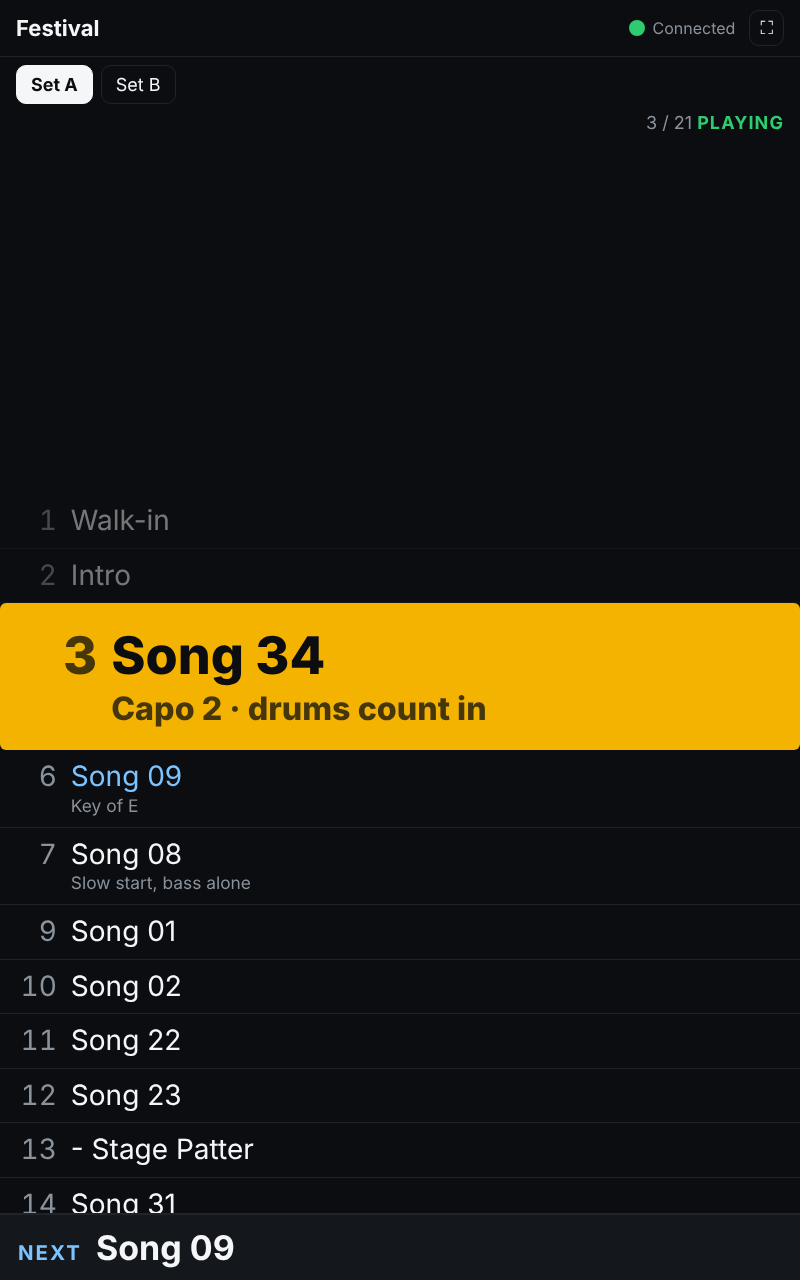
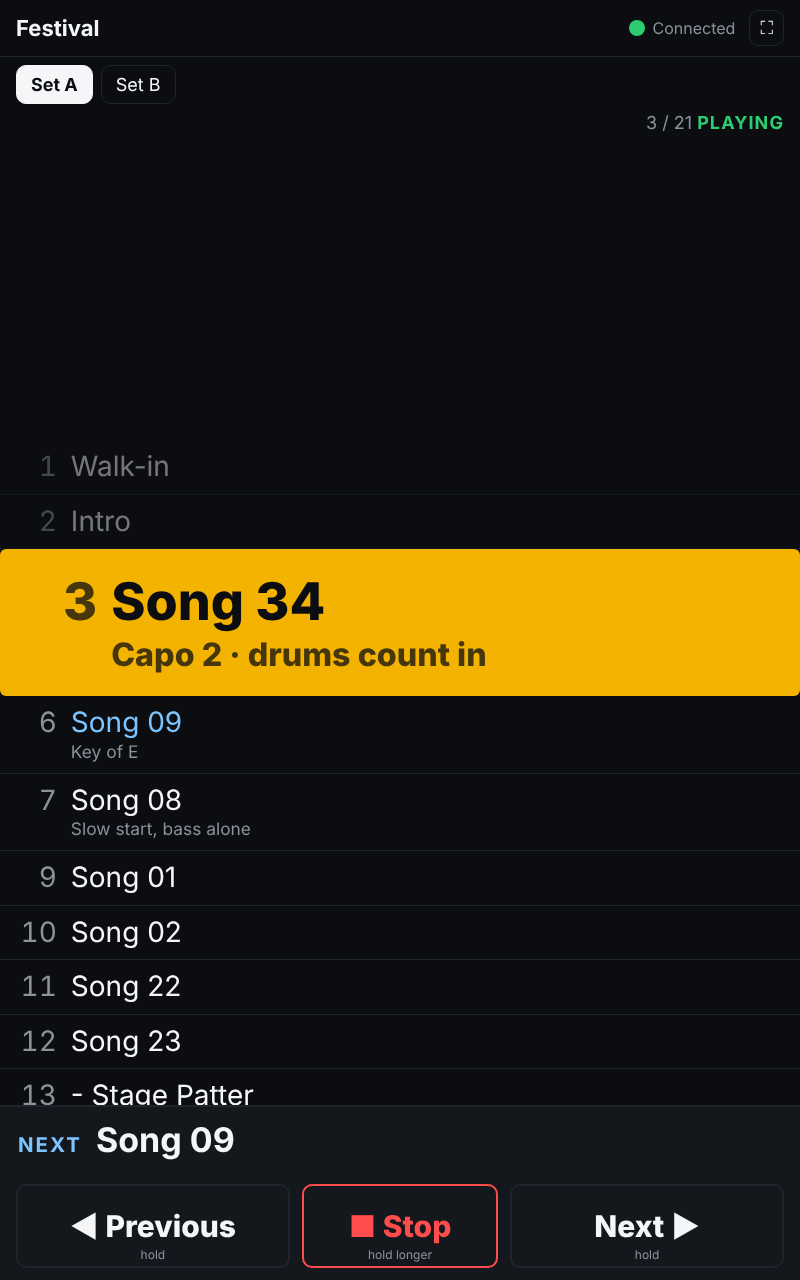
feat: Stage Monitor Control mode gets the CueList's own Stop and a safety hold setting (3.5.5)
- A Stop button between Previous and Next sends <id>|STOP, the CueList's
  own Stop. Only while the list plays or is paused, since a STOP on a
  stopped list rewinds it to the first step.
- CueLists with the Play/Stop/Pause layout (<PlaybackLayout>1) pause and
  resume on that button in QLC+, so the page reads Pause / Resume there.
  cuelists() now reports `layout`.
- Safety hold (hold_ms): how long Previous / Next must be held, 0 (a tap
  acts, for skipping several songs) 300 600 1000 1500 ms; 600 by default
  as before. Stop needs twice that and at least 1200 ms, so a tap never
  stops a list. In the screen, the page config and Claude's tool.
- No blackout: QLC+ 5's web socket has none, and a VC Blackout button
  pressed from the web can get out of step (documented in the protocol).
- Checked live on QLC+ 5.3.0 (Stop, Pause/Resume, four quick taps with
  the hold off). Pictures and GIF retaken with Set A in Control mode.
- Version 3.5.5, changelog, release notes, work plan, protocol notes,
  seven languages, Claude guide.

Claude-Session: https://claude.ai/code/session_01J5KWmmqtc4ek1m6SB3r1QZ

diff --git a/core/stage_page/page.html b/core/stage_page/page.html
@@ -89,6 +89,9 @@ body.stale .step.cur .n, body.stale .step.cur .note { color: var(--stale-fg); }
 #ctrl[hidden] { display: none; }
 #ctrl button { flex: 1; height: calc(84px * var(--k)); font-size: calc(30px * var(--k)); font-weight: 800; position: relative; overflow: hidden; border-width: 2px; }
 #ctrl button .fill, .step .fill { position: absolute; left: 0; top: 0; bottom: 0; width: 0; background: rgba(124,196,255,.35); pointer-events: none; }
+#ctrl #bStop { flex: 0.7; border-color: var(--bad); color: var(--bad); }
+#ctrl #bStop .fill { background: rgba(255,90,90,.35); }
+#ctrl button:disabled { opacity: .35; }
 #ctrl .hint { position: absolute; bottom: 4px; left: 0; right: 0; font-size: 12px; font-weight: 400; color: var(--dim); }
 .step { position: relative; }
 
@@ -119,6 +122,7 @@ body.stale .step.cur .n, body.stale .step.cur .note { color: var(--stale-fg); }
 <div id="nextbar" hidden><span class="lbl"></span><span class="t"></span></div>
 <div id="ctrl" hidden>
   <button id="bPrev" type="button"><span class="fill"></span>◀ <span class="lb"></span><span class="hint"></span></button>
+  <button id="bStop" type="button"><span class="fill"></span>■ <span class="lb"></span><span class="hint"></span></button>
   <button id="bNext" type="button"><span class="fill"></span><span class="lb"></span> ▶<span class="hint"></span></button>
 </div>
 <div id="debug" hidden></div>
@@ -136,6 +140,10 @@ const PROTOCOL = {
   arm: "/vc.json",
   status: id => `QLC+API|getWidgetStatus|${id}`,      // → QLC+API|getWidgetStatus|<id>|PLAY|<n>  or  …|<id>|STOP
   next: id => `${id}|NEXT`, prev: id => `${id}|PREV`,
+  // the CueList's own Stop button. On a list that is already stopped it sends the list back to its first
+  // step, so the page sends it only while the list plays or is paused. With the CueList layout
+  // "Play/Stop/Pause" (PlaybackLayout 1) the same button pauses and resumes instead.
+  stop: id => `${id}|STOP`,
   // <id>|STEP|<n> exists but in QLC+ 5.3.0 it only moves the selection, not what plays: not used.
   // pushed to every client: <id>|CUE|<n>   <id>|CUE_STATE|<status 0 stop 1 play 2 pause>|<n>|<next>|<side>|<top>
   parse(msg) {
@@ -153,7 +161,10 @@ const PROTOCOL = {
     return null;
   },
 };
-const POLL_MS = 2000, STALE_MS = 7000, ARM_MS = 60000, BACKOFF = [1000, 2000, 5000], HOLD_MS = 600;
+const POLL_MS = 2000, STALE_MS = 7000, ARM_MS = 60000, BACKOFF = [1000, 2000, 5000];
+// Control mode: how long Previous / Next must be held (0: a tap acts) and Stop (at least 1.2 s, twice the hold)
+const HOLD_MS = Number.isFinite(CFG.holdMs) ? CFG.holdMs : 600;
+const STOP_HOLD_MS = Number.isFinite(CFG.stopHoldMs) ? CFG.stopHoldMs : Math.max(1200, 2 * HOLD_MS);
 
 const T = s => (CFG.t && CFG.t[s]) || s;
 const $ = id => document.getElementById(id);
@@ -323,7 +334,11 @@ function render() {
   if (ctrl) {
     $("bPrev").querySelector(".lb").textContent = T("Previous");
     $("bNext").querySelector(".lb").textContent = T("Next");
-    $("bPrev").querySelector(".hint").textContent = $("bNext").querySelector(".hint").textContent = T("hold");
+    $("bPrev").querySelector(".hint").textContent = $("bNext").querySelector(".hint").textContent = HOLD_MS > 0 ? T("hold") : "";
+    const pause = l.layout === "pause", sb = $("bStop");
+    sb.querySelector(".lb").textContent = !pause ? T("Stop") : s.status === 2 ? T("Resume") : T("Pause");
+    sb.querySelector(".hint").textContent = T("hold longer");
+    sb.disabled = !connected || !playing;   // a Stop on a stopped list would rewind it
   }
 
   const b = $("banner");
@@ -354,17 +369,18 @@ function clock() {
 }
 
 // ── control mode: a long press, so a stray tap does nothing ──────────────────
-function hold(el, fire) {
+function hold(el, fire, ms = HOLD_MS) {
   let t = null, fill = null;
   const start = e => {
-    if (!connected) return;
+    if (!connected || el.disabled) return;
     e.preventDefault();
+    if (ms <= 0) { fire(); if (navigator.vibrate) navigator.vibrate(20); return; }   // safety hold off: a tap acts
     fill = el.querySelector(".fill");
     if (!fill) { fill = document.createElement("span"); fill.className = "fill"; el.prepend(fill); }
     fill.style.transition = "none"; fill.style.width = "0";
     void fill.offsetWidth;
-    fill.style.transition = `width ${HOLD_MS}ms linear`; fill.style.width = "100%";
-    t = setTimeout(() => { t = null; fire(); if (navigator.vibrate) navigator.vibrate(40); end(); }, HOLD_MS);
+    fill.style.transition = `width ${ms}ms linear`; fill.style.width = "100%";
+    t = setTimeout(() => { t = null; fire(); if (navigator.vibrate) navigator.vibrate(40); end(); }, ms);
   };
   const end = () => {
     if (t) { clearTimeout(t); t = null; }
@@ -376,6 +392,10 @@ function hold(el, fire) {
 }
 hold($("bPrev"), () => send(PROTOCOL.prev(lists[cur].id)));
 hold($("bNext"), () => send(PROTOCOL.next(lists[cur].id)));
+hold($("bStop"), () => {
+  const s = st[lists[cur].id];
+  if (s.status === 1 || s.status === 2) send(PROTOCOL.stop(lists[cur].id));
+}, STOP_HOLD_MS);
 // ── full screen, wake lock, debug ────────────────────────────────────────────
 const fsEl = document.documentElement;
 const fsReq = fsEl.requestFullscreen || fsEl.webkitRequestFullscreen;

diff --git a/static/js/stagemon.js b/static/js/stagemon.js
@@ -78,9 +78,9 @@ function _smRender() {
         <input class="field-input" maxlength="80" value="${_esc(it.label)}" placeholder="${_esc(cl.caption || 'Label on the page')}" data-i18n="${cl.caption ? 'off' : ''}"
                oninput="stagemonList('${cl.id}', 'label', this.value)" title="Label on the page (the CueList's caption when empty)">
         <select class="field-input" style="width:auto" onchange="stagemonList('${cl.id}', 'mode', this.value)"
-                title="Read-only: the tablet only shows the cues; nothing on it changes the show. Control: the page also has Previous and Next buttons that move this cue list in QLC+, like the pedal, each after a long press.">
+                title="Read-only: the tablet only shows the cues; nothing on it changes the show. Control: the page also has Previous, Stop and Next buttons that work this cue list in QLC+ like its own buttons or the pedal. Previous and Next act after the safety hold set under The page, Stop after a longer one.">
           <option value="read"${it.mode === 'read' ? ' selected' : ''}>${_esc('Read-only: shows the cues')}</option>
-          <option value="control"${it.mode === 'control' ? ' selected' : ''}>${_esc('Control: adds Previous / Next (hold)')}</option>
+          <option value="control"${it.mode === 'control' ? ' selected' : ''}>${_esc('Control: adds Previous / Stop / Next (hold)')}</option>
         </select>
         <button class="btn btn-surface btn-sm sm-ord" onclick="stagemonMove('${cl.id}', -1)" ${pos <= 0 ? 'disabled' : ''} title="Earlier on the page">↑</button>
         <button class="btn btn-surface btn-sm sm-ord" onclick="stagemonMove('${cl.id}', 1)" ${pos >= cfg.lists.length - 1 ? 'disabled' : ''} title="Later on the page">↓</button>
@@ -131,6 +131,7 @@ function _smSettings() {
   document.getElementById('sm-notes').checked = c.show_notes;
   document.querySelectorAll('#sm-font button').forEach(b => b.classList.toggle('on', b.dataset.v === c.font));
   set('sm-theme', c.theme);
+  set('sm-hold', String(c.hold_ms));
   set('sm-folder', _sm.folder || '');
   setFileChip('sm-folder-chip', _sm.folder, 'no folder yet');
   _smServer(_sm.server);

diff --git a/templates/index.html b/templates/index.html
@@ -2248,6 +2248,15 @@
           <label class="sm-check"><input type="checkbox" id="sm-next" onchange="stagemonSet('show_next', this.checked)"> Show the next cue</label>
           <label class="sm-check"><input type="checkbox" id="sm-clock" onchange="stagemonSet('show_clock', this.checked)"> Show the time</label>
           <label class="sm-check"><input type="checkbox" id="sm-numbers" onchange="stagemonSet('show_numbers', this.checked)"> Show step numbers</label>
+          <div class="sm-row"><span>Safety hold</span>
+            <select id="sm-hold" class="field-input sm-theme" onchange="stagemonSet('hold_ms', +this.value)"
+                    data-tooltip="Control mode: how long Previous and Next must be held before they act, so a stray touch does nothing. Off: a tap acts at once, handy for skipping several songs. Stop always needs a longer hold (at least 1.2 s).">
+              <option value="0">Off: a tap acts</option>
+              <option value="300">0.3 s</option>
+              <option value="600">0.6 s</option>
+              <option value="1000">1 s</option>
+              <option value="1500">1.5 s</option>
+            </select></div>
           <label class="sm-check" data-tooltip="The notes written on the CueList's steps in QLC+ (a key, a capo, who starts), in small type under each name"><input type="checkbox" id="sm-notes" onchange="stagemonSet('show_notes', this.checked)"> Show step notes</label>
           <div class="sm-row sm-ports"><span>Ports</span>
             <label data-tooltip="QLC+ web access listens here (qlcplus -w); 9999 unless you changed it">QLC+ <input id="sm-wsport" class="field-input" type="number" min="1" max="65535" onchange="stagemonSet('ws_port', +this.value)"></label>

diff --git a/core/stage_monitor.py b/core/stage_monitor.py
@@ -46,6 +46,8 @@ CONFIG_VERSION = 1
 FONT_SCALES = ("S", "M", "L", "XL")
 THEMES = ("dark", "contrast", "black", "dim")   # black: white song on black; dim: grey song on black
 MODES = ("read", "control")
+HOLD_CHOICES = (0, 300, 600, 1000, 1500)   # ms a Control button must be held; 0 = a tap acts
+STOP_HOLD_MIN = 1200                       # Stop needs at least this, and twice the hold
 DEFAULT_WS_PORT = 9999
 DEFAULT_HTTP_PORT = 8080
 
@@ -58,6 +60,7 @@ DEFAULTS = {
     "show_clock": True,
     "show_numbers": True,
     "show_notes": True,       # the step notes of the CueList, under each name
+    "hold_ms": 600,           # Control mode: hold Previous / Next this long (0: a tap acts)
     "ws_port": DEFAULT_WS_PORT,
     "http_port": DEFAULT_HTTP_PORT,
     "lists": [],          # [{id, label, mode, steps: {"<index>": {hide, label}}}] in display order
@@ -132,7 +135,7 @@ def cuelists(root) -> List[dict]:
     it, the console page first), ``page`` (console page, 0-based),
     ``frame_page`` (page inside the nearest multipage frame, with its name,
     or ``None``), ``chaser`` (``{id, name}`` or ``None``), ``steps``
-    (``[{index, fid, name, note}]``) and ``inputs``.
+    (``[{index, fid, name, note}]``), ``layout`` (``stop`` or ``pause``) and ``inputs``.
     """
     vc = None
     for el in root.iter():
@@ -166,6 +169,13 @@ def cuelists(root) -> List[dict]:
     return out
 
 
+def _layout(cl) -> str:
+    """What the CueList's second button does: ``stop`` (QLC+'s default, Play/Pause/Stop)
+    or ``pause`` (layout Play/Stop/Pause, saved as ``<PlaybackLayout>1``)."""
+    el = _child(cl, "PlaybackLayout")
+    return "pause" if el is not None and (el.text or "").strip() == "1" else "stop"
+
+
 def _one(cl, path, page, fpage, funcs) -> dict:
     cid = (_child(cl, "Chaser").text or "").strip() if _child(cl, "Chaser") is not None else ""
     ch = funcs.get(cid)
@@ -187,6 +197,7 @@ def _one(cl, path, page, fpage, funcs) -> dict:
         "frame_page": fpage,
         "chaser": {"id": cid, "name": ch.get("Name", "")} if ch is not None else None,
         "steps": steps,
+        "layout": _layout(cl),
         "inputs": _bindings(cl),
     }
 
@@ -220,6 +231,11 @@ def clean_config(cfg: Optional[dict]) -> dict:
     for k in ("show_next", "show_clock", "show_numbers", "show_notes"):
         if k in cfg:
             out[k] = bool(cfg[k])
+    try:
+        hold = int(cfg.get("hold_ms", DEFAULTS["hold_ms"]))
+    except (TypeError, ValueError):
+        hold = DEFAULTS["hold_ms"]
+    out["hold_ms"] = hold if hold in HOLD_CHOICES else DEFAULTS["hold_ms"]
     out["ws_port"] = _port(cfg.get("ws_port"), DEFAULT_WS_PORT)
     out["http_port"] = _port(cfg.get("http_port"), DEFAULT_HTTP_PORT)
     seen = set()
@@ -307,7 +323,7 @@ def reconcile(cfg: dict, lists: List[dict]) -> dict:
 PAGE_STRINGS = (
     "Stage Monitor", "Connecting…", "Connected", "Not connected", "retry in", "Unknown",
     "Not in the show QLC+ has open", "Playing", "Paused", "Stopped", "NEXT", "Previous", "Next",
-    "hold", "Not connected to QLC+",
+    "hold", "Stop", "Pause", "Resume", "hold longer", "Not connected to QLC+",
     "Start QLC+ with web access (qlcplus -w). Trying again by itself.",
     "No cue list chosen. Choose one in Swiss Knife and export again.",
     "Every step of this list is hidden.", "Close",
@@ -342,10 +358,11 @@ def page_data(cfg: dict, lists: List[dict], lang: str = "en") -> dict:
                           "note": st["note"], "hide": bool(s.get("hide"))})
         out_lists.append({"id": int(item["id"]),
                           "label": item["label"] or cl["caption"] or (cl["chaser"] or {}).get("name") or f"Cue list {item['id']}",
-                          "mode": item["mode"], "steps": steps})
+                          "mode": item["mode"], "layout": cl.get("layout", "stop"), "steps": steps})
     return {"title": cfg["title"], "font": cfg["font"], "theme": cfg["theme"],
             "showNext": cfg["show_next"], "showClock": cfg["show_clock"],
-            "showNumbers": cfg["show_numbers"], "showNotes": cfg["show_notes"], "wsPort": cfg["ws_port"],
+            "showNumbers": cfg["show_numbers"], "showNotes": cfg["show_notes"], "holdMs": cfg["hold_ms"],
+            "stopHoldMs": max(STOP_HOLD_MIN, 2 * cfg["hold_ms"]), "wsPort": cfg["ws_port"],
             "lists": out_lists, "lang": lang if lang in LANGS else "en", "t": page_strings(lang)}
 
 

diff --git a/core/mcp_server.py b/core/mcp_server.py
@@ -151,7 +151,7 @@ TOOLS: List[dict] = [
      "inputSchema": _obj({"songs": _IDS, "text": _S, "slot": _S, "rows": {"type": "array"},
                           "apply": {"type": "boolean"}, "target_chaser_id": _S})},
     {"name": "stage_monitor", "handler": "t_stage_monitor",
-     "description": "The Stage Monitor: a page for a tablet on stage that shows the current and the next cue of chosen CueLists, live from QLC+. Without arguments, lists the show's CueLists (id, caption, where, chaser, step names) and the saved settings (read only). `config` changes the settings and keeps them in <show>.stage.json: title, font (S M L XL), theme (dark, contrast, black = white song on black, dim = grey song on black), show_next, show_clock, show_numbers, show_notes (the CueList step notes), ws_port, http_port, and lists [{id, label, mode (read | control), steps {\"<index>\": {hide, label}}}] in page order (give the whole list). export=true writes index.html, serve_stage.py and the Start Stage Monitor launchers into `folder` (default: a stage_monitor folder next to the show). When the folder already has a page from an earlier export, the export stops and names the files: ask the user, then call again with replace=true (the only case where Swiss Knife writes over files; it never touches files the Stage Monitor did not write). The show itself is never changed. Serving the page to the tablet is done with Start Stage Monitor in the exported folder or ▶ Serve in the Swiss Knife window.",
+     "description": "The Stage Monitor: a page for a tablet on stage that shows the current and the next cue of chosen CueLists, live from QLC+. Without arguments, lists the show's CueLists (id, caption, where, chaser, step names) and the saved settings (read only). `config` changes the settings and keeps them in <show>.stage.json: title, font (S M L XL), theme (dark, contrast, black = white song on black, dim = grey song on black), show_next, show_clock, show_numbers, show_notes (the CueList step notes), hold_ms (Control mode safety hold for Previous/Next: 0 = a tap acts, 300, 600 default, 1000, 1500; Stop needs at least 1200 and twice this), ws_port, http_port, and lists [{id, label, mode (read | control: Previous, Stop and Next buttons on the tablet), steps {\"<index>\": {hide, label}}}] in page order (give the whole list). export=true writes index.html, serve_stage.py and the Start Stage Monitor launchers into `folder` (default: a stage_monitor folder next to the show). When the folder already has a page from an earlier export, the export stops and names the files: ask the user, then call again with replace=true (the only case where Swiss Knife writes over files; it never touches files the Stage Monitor did not write). The show itself is never changed. Serving the page to the tablet is done with Start Stage Monitor in the exported folder or ▶ Serve in the Swiss Knife window.",
      "inputSchema": _obj({"config": {"type": "object"}, "export": {"type": "boolean"}, "folder": _S,
                           "replace": {"type": "boolean"},
                           "lang": {"type": "string", "enum": ["en", "it", "fr", "de", "es", "pt", "ja", "zh"]}})},

diff --git a/tests/test_stage_monitor.py b/tests/test_stage_monitor.py
@@ -654,3 +654,37 @@ def test_step_notes_can_be_hidden():
     assert off["lists"][0]["steps"][1]["note"] == "capo 2"          # kept in the data, hidden by the page
     html = open(sm.PAGE_TEMPLATE, encoding="utf-8").read()
     assert "CFG.showNotes !== false" in html
+
+
+def test_control_has_the_cuelists_own_stop():
+    root = _small()
+    cl = [e for e in root.iter() if e.tag.endswith("CueList") and e.get("ID") == "22"][0]
+    ET.SubElement(cl, "PlaybackLayout").text = "1"            # Play/Stop/Pause: the button pauses
+    cls = sm.cuelists(root)
+    assert [c["layout"] for c in cls] == ["stop", "pause", "stop", "stop"]
+    cfg = _cfg()
+    cfg["lists"] = [{"id": "21", "label": "", "mode": "control", "steps": {}},
+                    {"id": "22", "label": "", "mode": "control", "steps": {}}]
+    data = _inlined(sm.build_page(cfg, cls))
+    assert [l["layout"] for l in data["lists"]] == ["stop", "pause"]
+    html = open(sm.PAGE_TEMPLATE, encoding="utf-8").read()
+    assert "stop: id => `${id}|STOP`" in html
+    assert 'id="bStop"' in html and "STOP_HOLD_MS = Number.isFinite(CFG.stopHoldMs)" in html
+    # never sent to a stopped list: QLC+ would send it back to its first step
+    assert "if (s.status === 1 || s.status === 2) send(PROTOCOL.stop(" in html
+    assert "sb.disabled = !connected || !playing" in html
+    for w in ("Stop", "Pause", "Resume", "hold longer"):
+        assert w in sm.PAGE_STRINGS
+    assert sm.page_strings("it")["Resume"] == "Riprendi"
+
+
+def test_the_safety_hold_can_be_set_or_switched_off():
+    assert sm.clean_config({})["hold_ms"] == 600
+    for given, kept in ((0, 0), ("300", 300), (1500, 1500), (450, 600), ("x", 600), (None, 600)):
+        assert sm.clean_config({"hold_ms": given})["hold_ms"] == kept
+    cls = sm.cuelists(_small())
+    for hold, stop in ((600, 1200), (0, 1200), (300, 1200), (1000, 2000), (1500, 3000)):
+        d = _inlined(sm.build_page(_cfg(hold_ms=hold), cls))
+        assert (d["holdMs"], d["stopHoldMs"]) == (hold, stop)    # Stop: at least 1.2 s, twice the hold
+    html = open(sm.PAGE_TEMPLATE, encoding="utf-8").read()
+    assert "if (ms <= 0) { fire();" in html                       # off: a tap acts at once

diff --git a/core/mcp_guide.py b/core/mcp_guide.py
@@ -192,9 +192,10 @@ GUIDE: Dict[str, dict] = {
                "live from QLC+, for a player who steps through the setlist with a pedal and cannot see the laptop.",
         "args": [("config", "Settings to change; leave out to read them. `lists` [{id, label, mode, steps}] in page "
                             "order (the whole list): `mode` is `read` (default) or `control` (Previous and Next with "
-                            "a long press); `steps` maps a step index (from 0) to `{hide: true}` or `{label: \"…\"}`. "
+                            "a long press, and the CueList's own Stop with a longer one, only while the list plays); `steps` maps a step index (from 0) to `{hide: true}` or `{label: \"…\"}`. "
                             "Also `title`, `font` (S, M, L, XL), `theme` (`dark`, `contrast`, `black` for a white song "
                             "on black, `dim` for a grey song on black), `show_next`, `show_clock`, `show_numbers`, `show_notes` (the CueList step notes), "
+                            "`hold_ms` (Control mode: how long Previous and Next must be held, 0 300 600 1000 1500; 0 = a tap acts; Stop needs at least 1200 and twice this), "
                             "`ws_port` (QLC+, 9999), `http_port` (the page, 8080)."),
                  ("export", "true writes `index.html`, `serve_stage.py` and the Start Stage Monitor launchers."),
                  ("folder", "Where to export, inside a shared folder. Default: `stage_monitor` next to the show."),

diff --git a/tools/make_stage_shots.py b/tools/make_stage_shots.py
@@ -41,7 +41,7 @@ LIST_ID = "4001"
 CONFIG = {
     "title": "Festival", "font": "M", "theme": "dark", "show_next": True, "show_clock": False,
     "show_numbers": True,
-    "lists": [{"id": LIST_ID, "label": "Set A", "mode": "read",
+    "lists": [{"id": LIST_ID, "label": "Set A", "mode": "control",
                "steps": {"0": {"label": "Walk-in"}, "1": {"label": "Intro"}, "3": {"hide": True},
                          "4": {"hide": True}, "7": {"hide": True}}},
               {"id": "4101", "label": "Set B", "mode": "read", "steps": {}}],

diff --git a/core/workspace.py b/core/workspace.py
@@ -29,7 +29,7 @@ QLC_NS_URI = 'http://www.qlcplus.org/Workspace'
 NS = {'q': QLC_NS_URI}
 ET.register_namespace('', QLC_NS_URI)
 
-VERSION = "3.5.4"  # single source of truth — must match CHANGELOG
+VERSION = "3.5.5"  # single source of truth — must match CHANGELOG
 
 # ── Safety limits (same as the tkinter version) ───────────────────────────────
 _MAX_XML_BYTES = 50 * 1024 * 1024   # 50 MB

diff --git a/WORKPLAN.md b/WORKPLAN.md
@@ -18,7 +18,7 @@ This is the living plan for Swiss Knife. It says where the project stands, what 
 
 ## 1. Where we are
 
-**Version 3.5.4, 17 October 2026.** 3.1.0 added support for shows made by the QLC+ 5.3 Show Wizard, 3.2.0 gives older QLC+ 5 shows what QLC+ 5.3 offers, 3.3.0 rebuilds the Look & Chaser Builder in the wizard's terms, 3.4.0 gives the guided routes one way forward, 3.4.1 checks the seven languages screen by screen, 3.5.0 adds the Stage Monitor, a page for a tablet on stage that follows QLC+ live, 3.5.1 opens its preview in the browser, since the app's window opens no new windows, 3.5.2 brings back the macOS packages that 3.5.1 lacked, 3.5.3 adds Start Stage Monitor, one file to double-click at the gig, and 3.5.4 asks before an export replaces an earlier page. Swiss Knife opens a QLC+ 5 workspace once, lets any tool change it as the show in progress, checks it with the Workspace Doctor and saves it as a new file with a report and a recipe.
+**Version 3.5.5, 17 October 2026.** 3.1.0 added support for shows made by the QLC+ 5.3 Show Wizard, 3.2.0 gives older QLC+ 5 shows what QLC+ 5.3 offers, 3.3.0 rebuilds the Look & Chaser Builder in the wizard's terms, 3.4.0 gives the guided routes one way forward, 3.4.1 checks the seven languages screen by screen, 3.5.0 adds the Stage Monitor, a page for a tablet on stage that follows QLC+ live, 3.5.1 opens its preview in the browser, since the app's window opens no new windows, 3.5.2 brings back the macOS packages that 3.5.1 lacked, 3.5.3 adds Start Stage Monitor, one file to double-click at the gig, 3.5.4 asks before an export replaces an earlier page, and 3.5.5 adds the CueList's own Stop to Control mode and a *Safety hold* setting (or none) for its buttons. Swiss Knife opens a QLC+ 5 workspace once, lets any tool change it as the show in progress, checks it with the Workspace Doctor and saves it as a new file with a report and a recipe.
 
 | Area | State |
 |---|---|
@@ -27,7 +27,7 @@ This is the living plan for Swiss Knife. It says where the project stands, what 
 | Install | Packages for macOS (Apple silicon and Intel), Windows (installer and zip) and Linux. An update check with *Update and restart*, tested on macOS several times. |
 | Language | English, Italian, French, German, Spanish, Portuguese, Japanese and Chinese. |
 | Claude | Swiss Knife is an MCP server with 27 tools, among them `guide`, which explains the others. It also offers five ready requests (MCP prompts) and the guide as resources. Claude Desktop connects with one file (`.mcpb`), Claude Code with one command. Claude gets only the folders you list and Swiss Knife itself, and it writes only new files (the Stage Monitor's own page and settings are replaced). The *Connect to Claude* card and the menu item show whether the connection exists. |
-| Tests | 1018 automated tests pass (in the sandbox; 3 skipped there). A live check against a real QLC+ 5.2.2 runs in CI (advisory). |
+| Tests | 1020 automated tests pass (in the sandbox; 3 skipped there). A live check against a real QLC+ 5.2.2 runs in CI (advisory). |
 | Documentation | README, wiki (32 pages, *Claude's tools* written from the code), CHANGELOG, one set of release notes per version. |
 
 Release 3.0.0 was the milestone: installing, updating, three languages and the Claude connection all in place, with the documentation rewritten to match. Release 3.0.1 follows a test on a real show with Claude: the Dictionary drafts descriptions itself and can hand the job to Claude, cue notes name the button, and Claude's tools are documented where Claude reads them. Release 3.0.2 adds German, Spanish, Portuguese, Japanese and Chinese, and 3.0.3 translates the tool names and fills the gaps found on the first look.
@@ -54,7 +54,7 @@ Added after a gig. The spec is the Claude doc *Swiss Knife — Stage Monitor tab
 **What Phase 0 found** (the QLC+ 5.2.2 and 5.3.0 source, then QLC+ 5.3.0 built from its tag and run headless with `-w` in the sandbox; details in `docs/STAGE_MONITOR_PROTOCOL.md`). The web socket is `ws://<host>:9999/qlcplusWS`. `QLC+API|getWidgetStatus|<id>` answers `…|<id>|PLAY|<n>` or `…|<id>|STOP`, and an empty reply for an ID the show does not have. Every client gets `<id>|CUE|<n>` when the cue list moves, whoever moved it, and `<id>|CUE_STATE|<status>|<n>|<next>|…` when it starts, stops or pauses. Steps count from 0, and −1 means none. QLC+ does not check the Origin header, so a page from port 8080 can connect. Two findings changed the design:
 
 - QLC+ 5 sends those pushes only after a web client has asked for `/vc.json`, which its own web page does. Without that request a pedal press sends no `CUE` message at all. The stage page asks for it on every connection and every minute (QLC+ sends no CORS header, so the page cannot read the answer, but the request is enough) and also asks every list's status every 2 seconds.
-- `<id>|STEP|<n>` moves the selection but not what plays while the list runs: step 5 was shown while step 2 kept playing. Control mode therefore has *Previous* and *Next* and no jump to a step.
+- `<id>|STEP|<n>` moves the selection but not what plays while the list runs: step 5 was shown while step 2 kept playing. Control mode therefore has *Previous* and *Next* and no jump to a step. *Stop* (3.5.5) is the CueList's own `STOP`, sent only while the list plays or is paused, since a `STOP` on a stopped list rewinds it to the first step.
 
 Measured in the sandbox: a `NEXT` reaches the page in 35 to 50 ms. When QLC+ quits the page shows it at once, and it is back 5 ms after QLC+ is, with pushes. A frozen QLC+ (socket open, no answers) shows as not connected after 7.6 s.
 
@@ -67,7 +67,7 @@ Measured in the sandbox: a `NEXT` reaches the page in 35 to 50 ms. When QLC+ qui
 - At run time the tablet talks to QLC+ directly and Swiss Knife does not relay. Swiss Knife can serve the folder (*Serve*, *Stop*), or `python3 serve_stage.py` does it without Swiss Knife. The screen shows the computer's addresses and the full address for the tablet.
 - The settings are kept in `<show>.stage.json` next to the show, without the `_vN` suffix, so every version of the show shares them. Lists are matched by widget ID, and the screen names a list that disappeared and a new one not set up yet.
 - If the status answers stop, the dot turns red and the current song greys out, then the page reconnects after 1 s, 2 s and every 5 s.
-- Control mode: *Previous* and *Next* at the bottom act after a 600 ms press. With several lists the page has tabs and follows the list that just moved.
+- Control mode: *Previous* and *Next* at the bottom act after a 600 ms press, or the *Safety hold* chosen (3.5.5: off, 300, 600, 1000, 1500 ms; off is for skipping several songs when the setlist changes); *Stop* (3.5.5) after twice that and at least 1200 ms, and it reads *Pause*/*Resume* on a CueList with the Play/Stop/Pause layout. No blackout: QLC+ 5's web socket has no blackout command, and a VC Blackout button pressed from the web can get out of step with the real blackout. With several lists the page has tabs and follows the list that just moved.
 - The preview opens in a browser: from the app's own window Swiss Knife opens the default browser (3.5.1; that window opens no new windows), and from a browser tab the page opens a new tab in the same browser (3.5.2), which also works when Swiss Knife runs on another machine and gets its own Content-Security-Policy, which lets it reach QLC+ on this computer and nothing else.
 - Claude: a `stage_monitor` tool (list, settings, export) and a ready request, *A tablet page for the stage*. Replacing an earlier export needs `replace=true`, which the tool asks Claude to get from the user (3.5.4); everything else Claude writes is still a new file.
 - At the gig (3.5.3): the export also writes Start Stage Monitor (`.command`, `.bat`, `.sh`). It runs `--serve-stage` on the installed app (no Python needed), else Python 3, and its window shows the address, whether QLC+ answers (with the command to start it) and who opened the page. The release build checks that the bundle can do it. A separate packaged server app was considered and left out: another unsigned download on four systems for what the installed app already does.
@@ -77,7 +77,7 @@ Measured in the sandbox: a `NEXT` reaches the page in 35 to 50 ms. When QLC+ qui
 |---|---|---|
 | 0 | Protocol from the QLC+ source and a live QLC+ 5.3.0; `docs/STAGE_MONITOR_PROTOCOL.md`; a probe page (`tools/stage_probe.html`) for the Mac | Done in the sandbox; the probe with the pedal on the Mac is still to do |
 | 1 | Read-only page: list, configure, export, serve, reconnect, debug overlay (triple tap on the title), black colours, seven languages, wiki page *Stage Monitor* with Linux and Windows, Claude tool, pictures | Released in 3.5.0 |
-| 2 | Control mode: *Previous* and *Next* with a 600 ms press; no jump (see above) | Released in 3.5.0, off by default |
+| 2 | Control mode: *Previous* and *Next* with a 600 ms press; no jump (see above). *Stop* with a 1200 ms press | Released in 3.5.0, off by default; *Stop* in 3.5.5 |
 | 3 (optional) | Chosen VC buttons (PANIC RESET) as big tiles; the Setlist screen's order; a QR code for the address if a small pure-Python encoder fits | Not started |
 
 Left as it is: the binding names on the cards (*next*, *previous*) are in English.
@@ -321,6 +321,7 @@ Dates are the CHANGELOG dates. Details of each release are in [CHANGELOG.md](CHA
 | 3.5.2 | 17 Oct | The macOS packages that 3.5.1 lacked: a test opened a real browser on the macOS build machines. The preview opens a browser only when the button asks, and from a browser tab it opens a tab in that browser. |
 | 3.5.3 | 17 Oct | Stage Monitor at the gig: Start Stage Monitor to double-click (on the installed app via `--serve-stage`, no Python needed), every address listed, a hint when a browser asks for https://, what runs at the gig in the app and the wiki. |
 | 3.5.4 | 17 Oct | Stage Monitor asks before an export replaces an earlier page (the one exception to never overwriting), in the app and for Claude; the two modes explained; *Show step notes* on or off. |
+| 3.5.5 | 17 Oct | Stage Monitor: Control mode gets the CueList's own *Stop* (1.2 s press, only while the list plays; *Pause*/*Resume* on the Play/Stop/Pause layout) and a *Safety hold* setting for Previous / Next, which can be off. |
 
 ## 4. Goal and the Pub test
 

diff --git a/docs/STAGE_MONITOR_PROTOCOL.md b/docs/STAGE_MONITOR_PROTOCOL.md
@@ -48,6 +48,12 @@ From the probe to the page showing the new step: 35 to 50 ms on one computer.
 
 The first `STOP` stops the chaser and keeps the step selected (`CUE_STATE|0|1|2|…`): *Play* would start from it, and the page shows it with a dashed outline. A second `STOP` clears it (`CUE|-1`). `getWidgetStatus` says only `STOP` in both cases, so after a reconnect a stopped list shows no selected step until it moves.
 
+Control mode's *Stop* button (3.5.5) sends `<id>|STOP` only while the list plays or is paused, so it never does that second, rewinding `STOP`. In a CueList whose layout is *Play/Stop/Pause* (`<PlaybackLayout>1</PlaybackLayout>` in the show; absent means *Play/Pause/Stop*), `STOP` on a running list toggles pause instead (`VCCueList::stopClicked`), so the button reads *Pause* or *Resume*. Checked live on QLC+ 5.3.0: a 1.2 s hold stopped a playing list; on a list with layout 1 it paused it and a second hold resumed it. `getWidgetStatus` reports a paused list as `STOP`; the page keeps *paused* from the last `CUE_STATE` push.
+
+### No blackout
+
+QLC+ 5's web socket has no blackout command. A Virtual Console button whose action is *Blackout* can be pressed (`<id>|255`), but in the QML interface (`qlcplus5`) both the press and the release toggle blackout and the button's state is only the last value sent, so a page could show the wrong state after a blackout from the QLC+ toolbar. The page does not offer one.
+
 ### Why the page has no jump to a step
 
 `<id>|STEP|<n>` sets the selected step but, while the chaser plays, does not change what plays: checked live, `STEP|5` reported step 5 while step 2 kept playing, and the next `PREV` went to step 1. Jumping would need `STOP`, `STEP|n`, `PLAY`, which goes through a stop on stage. The page offers *Previous* and *Next* only.

diff --git a/CHANGELOG.md b/CHANGELOG.md
@@ -7,6 +7,13 @@ This project follows [Keep a Changelog](https://keepachangelog.com/en/1.0.0/) co
 
 ## [Unreleased]
 
+## [3.5.5] — 2026-10-17 — Stop on the tablet, safety hold
+
+### Added
+- Stage Monitor, Control mode: a *Stop* button between *Previous* and *Next*. It is the CueList's own Stop, so it stops that list the way the Stop button in QLC+ does. It needs a longer press than the other two (1.2 s) and works only while the list plays or is paused; otherwise it is greyed out, because in QLC+ a Stop on a stopped list sends it back to its first step. On a CueList with the *Play/Stop/Pause* layout the button reads *Pause* and *Resume*, as in QLC+. Checked live against QLC+ 5.3.0.
+- *Safety hold*, a new setting under *The page*: how long *Previous* and *Next* must be held in Control mode. Choose 0.3, 0.6 (the default, as before), 1 or 1.5 s, or *Off: a tap acts*, for skipping several songs quickly when the setlist changes mid-show. *Stop* always needs twice the hold and at least 1.2 s, so a tap never stops a list. Also in Claude's `stage_monitor` tool (`hold_ms`).
+- There is no blackout button: QLC+ 5's web connection has no blackout command (see `docs/STAGE_MONITOR_PROTOCOL.md`).
+
 ## [3.5.4] — 2026-10-17 — Ask before replacing, step notes
 
 ### Changed
